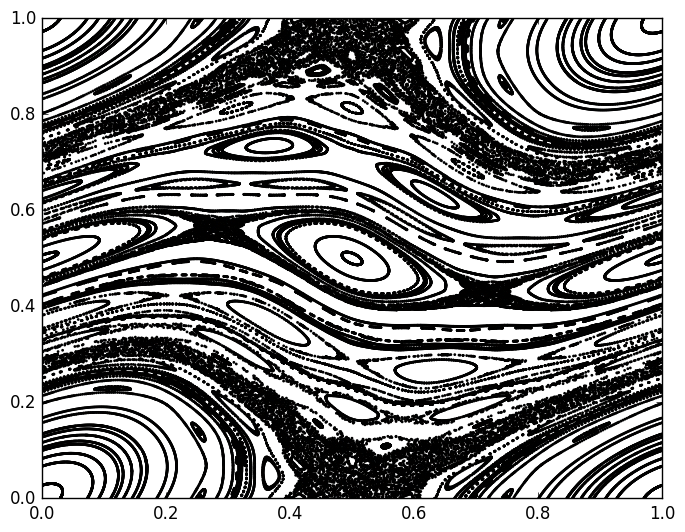
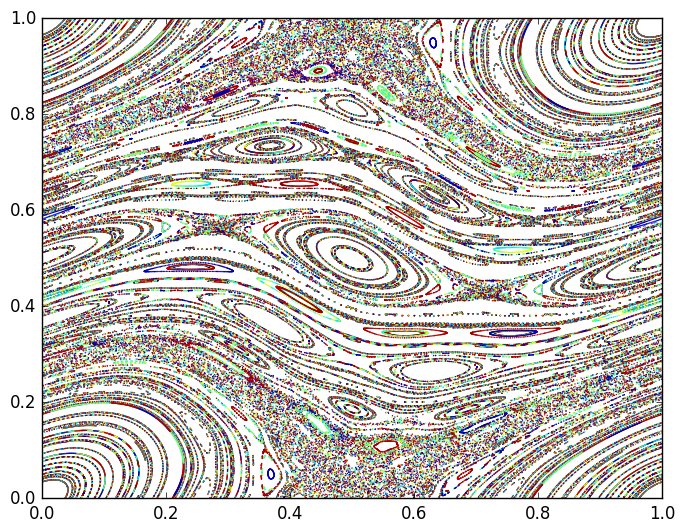
lw=0
found the command for lw = 0

diff --git a/MapFunctions.py b/MapFunctions.py
@@ -103,8 +103,8 @@ def pyplot(orbitarray):
 	colors = abs(1-2*orbitarray[0,1,:])
 	print(colors.shape)
 	for i in range(len(orbitarray[:,0,0])):
-		plt.scatter(orbitarray[i,0,:],orbitarray[i,1,:],s=1,c=colors,rasterized=True)
-		print('plotting orbit',i,'of',len(orbitarray[:,0,0]))
+		plt.scatter(orbitarray[i,0,:],orbitarray[i,1,:],marker='o',lw=0.0,s=1,c=colors,rasterized=True)
+		print('plotting orbit',i+1,'of',len(orbitarray[:,0,0]))
 	print('Plots are done.  Now saving...')
 	plt.ylim([0,1])
 	plt.xlim([0,1])
@@ -137,8 +137,8 @@ def main():
 		print(init)
 
 		print('making root function')
-		function = rootFunction(5)
-		x = np.random.rand(10000,2)
+		function = rootFunction(25)
+		x = np.random.rand(10000000,2)
 		x[:,0]=0
 
 		y0s = ycoord(x)
@@ -163,7 +163,6 @@ def main():
 		k = 0
 	print('k=',k)
 
-
 	if '--orbitLength' in args:
 		index = args.index('--orbitLength')
 		del args[index]
@@ -172,7 +171,7 @@ def main():
 		orbitLength=100
 	print('Orbit Length is:',orbitLength)
 
-	init = np.random.rand(100,2)
+	init = np.random.rand(200,2)
 	print('Initial conditions set.')
 
 
